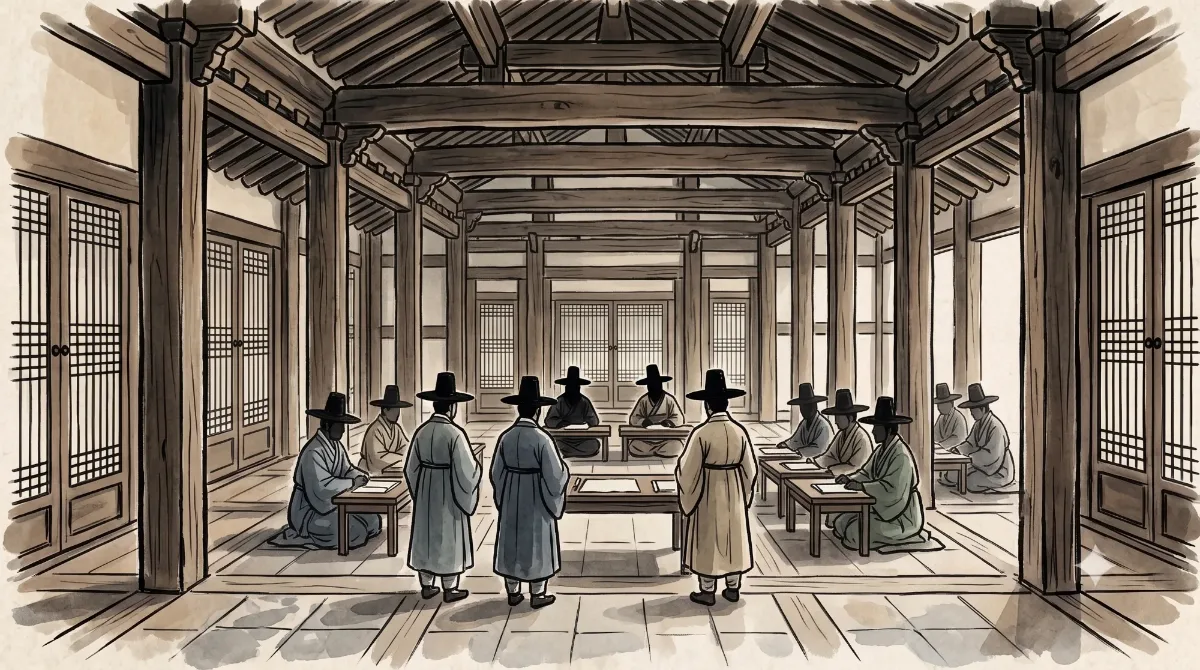
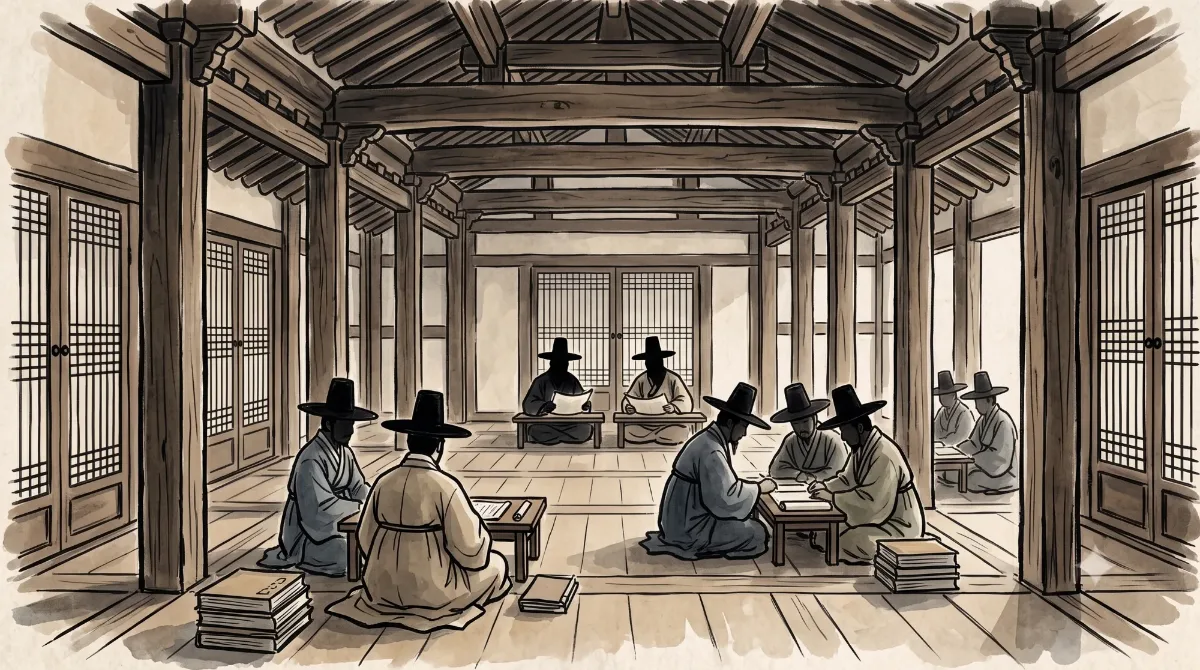
삽화 순서 재배치, 태블릿 점검 반영(용어 버튼 터치 영역, 선택 직후 깜빡임 수정)
Claude-Session: https://claude.ai/code/session_016wVfbC1xiXh6HSTHK6wVAt

diff --git a/style.css b/style.css
@@ -109,7 +109,7 @@ textarea { resize: vertical; min-height: 120px; line-height: 1.6; }
 .scene-img img { display: block; width: 100%; height: auto; aspect-ratio: 16 / 9; object-fit: cover; }
 #introImg .scene-img { max-width: 520px; margin: 0 auto 14px; }
 
-.term { font: inherit; font-weight: 700; color: var(--seal); background: none; border: 0; border-bottom: 2px dashed var(--seal); padding: 0; cursor: pointer; }
+.term { font: inherit; font-weight: 700; color: var(--seal); background: none; border: 0; text-decoration: underline dashed var(--seal); text-decoration-thickness: 2px; text-underline-offset: 4px; padding: 9px 2px; margin: -9px 0; cursor: pointer; }  /* 밑줄은 글자에 붙이고, 본문 줄 높이는 그대로 둔 채 터치 영역만 44px 이상으로 */
 
 .choices { display: grid; gap: 12px; margin-bottom: 14px; }
 .choice {

diff --git a/app.js b/app.js
@@ -170,10 +170,13 @@ function renderStage() {
     afterHtml +
     '<div class="tools"><button type="button" class="link-btn" id="magBtn">🔍 자료 돋보기: 당시 맥락 더 보기</button></div>';
 
-  const card = $("stageCard");
-  card.style.animation = "none";
-  void card.offsetWidth;
-  card.style.animation = "";
+  // 새 장면이 열릴 때만 페이드인. 선택 직후(결과 카드가 붙는 다시 그리기)에는 깜빡이지 않게 한다.
+  if (state.phase === "choose") {
+    const card = $("stageCard");
+    card.style.animation = "none";
+    void card.offsetWidth;
+    card.style.animation = "";
+  }
 }
 
 function pickChoice(dataIdx) {

diff --git a/README.md b/README.md
@@ -60,7 +60,7 @@ node scripts/verify.mjs         # 배포 전 점검(검증 라벨·쪽수·CDN·
 
 ## Changelog
 
-- **v1.4 (2026-09-29)** 삽화 6장(인트로·s1~s5)을 수묵 스타일 그림으로 교체(1200px, 각 120~155KB, 16:9). 그림 밑 문구를 없애고 시작 화면 안내를 "장면 속 대사와 그림은 ... 창작이야"로 넓힘. 모바일 헤더 버튼 줄바꿈 수정.
+- **v1.4 (2026-09-29)** 삽화 6장(인트로·s1~s5)을 수묵 스타일 그림으로 교체(1200px, 각 120~155KB, 16:9). 그림 밑 문구를 없애고 시작 화면 안내를 "장면 속 대사와 그림은 ... 창작이야"로 넓힘. 그림 순서를 장면 내용에 맞게 배치(s2=왕이 있는 궁궐 마당, s3=마주 앉은 조정 등). 모바일 헤더 버튼 줄바꿈 수정, 본문 용어 버튼 터치 영역 확대(태블릿), 선택 직후 카드가 깜빡이던 문제 수정. 태블릿(768×1024, 1024×768, 820×1180)에서 가로 스크롤·작은 터치 대상·이미지 오류 없음 확인.
 - **v1.3 (2026-09-29)** 글쓰기 부담 낮추기: 최소 분량 40자→20자, ② 반론·재반박 고정을 없애고 이어 쓸 방향 3가지 중 선택. 힌트를 질문 3개짜리
   "생각 사다리"로 확장(정답·예시 없음), 글자 수 안내를 응원 톤으로. 화면 문장 다듬기("네가 선 자리"→"네가 고른 입장", 시작 화면 안내 등), 시작 화면 안내 문구 수정. 삽화 파일 형식을 webp로 변경, 인트로 삽화 추가.
 - **v1.2 (2026-09-29)** 텍스트 위주 화면 정리. 장면별 삽화 자리 추가(파일이 없으면 자동으로 숨김), 시작 화면 칩 4개·소개 문단,
